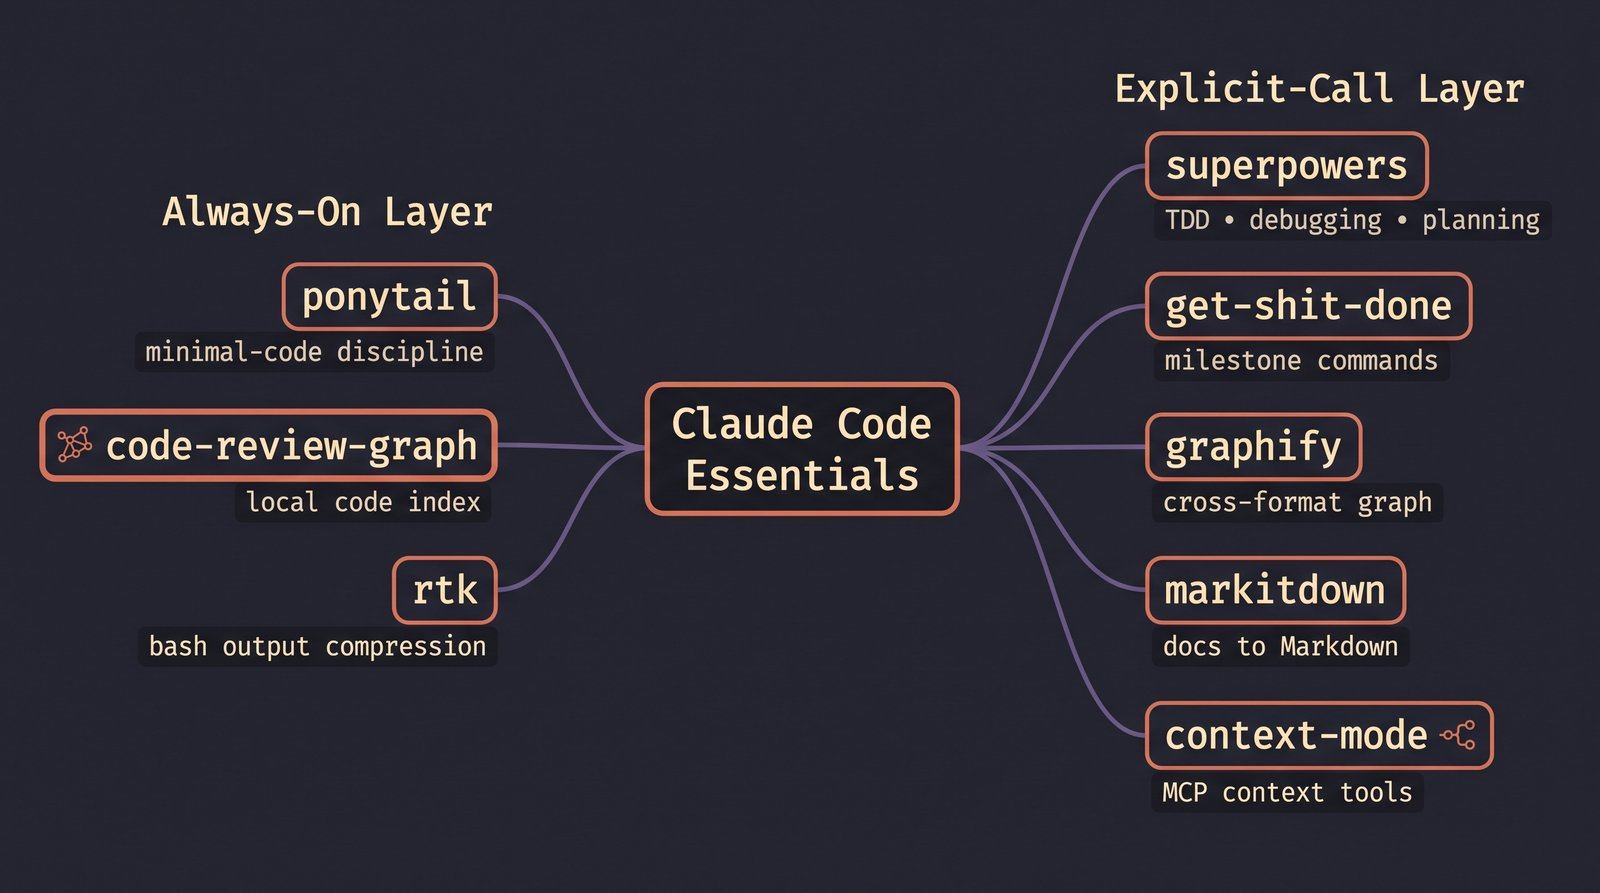
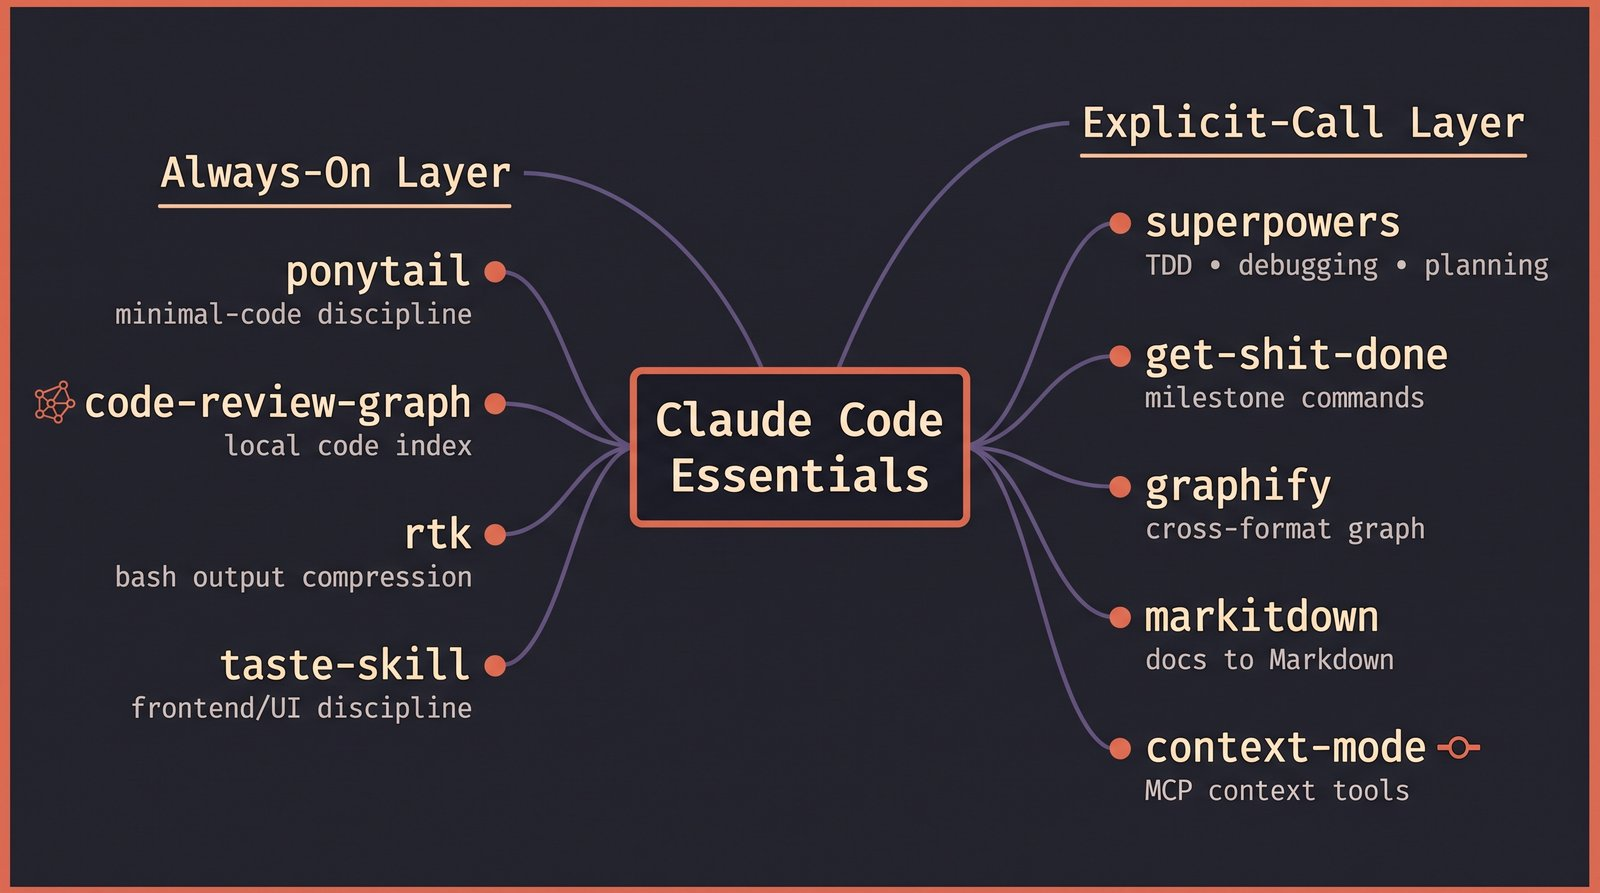
Update architecture diagram to include taste-skill
Replaces the stale image that only showed the original three
always-on tools. Removed the now-outdated caveat note since the
diagram is current again.

diff --git a/README.md b/README.md
@@ -124,11 +124,6 @@ only responds to queries you make anyway, rtk only touches bash output.
 Nothing in the always-on tier watches or logs anything beyond what a normal
 session already produces.
 
-The diagram above predates taste-skill's addition and still shows only the
-original three always-on tools; taste-skill belongs in that same tier
-alongside ponytail. Treat the diagram as showing the shape of the split,
-not a fully current inventory.
-
 ## What gets installed, and why
 
 For the longer version of every row below, with metrics and the full
